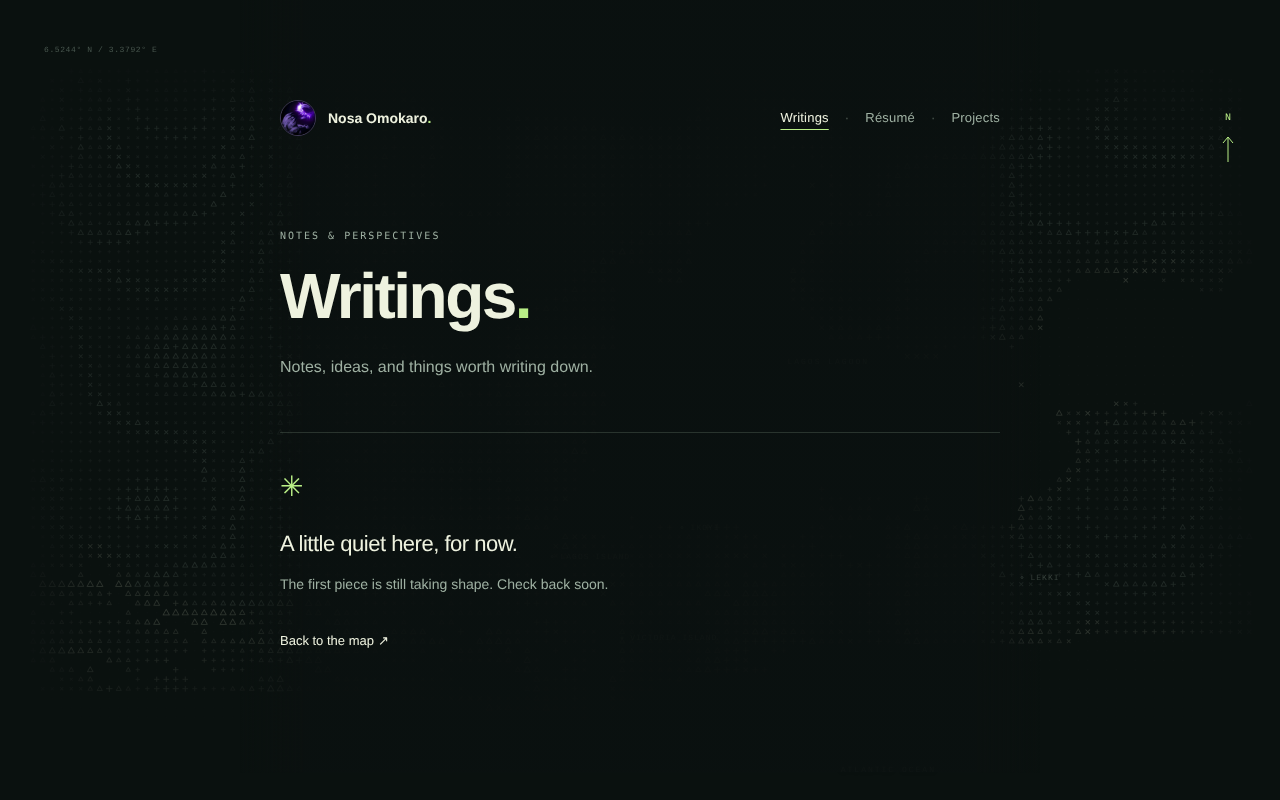
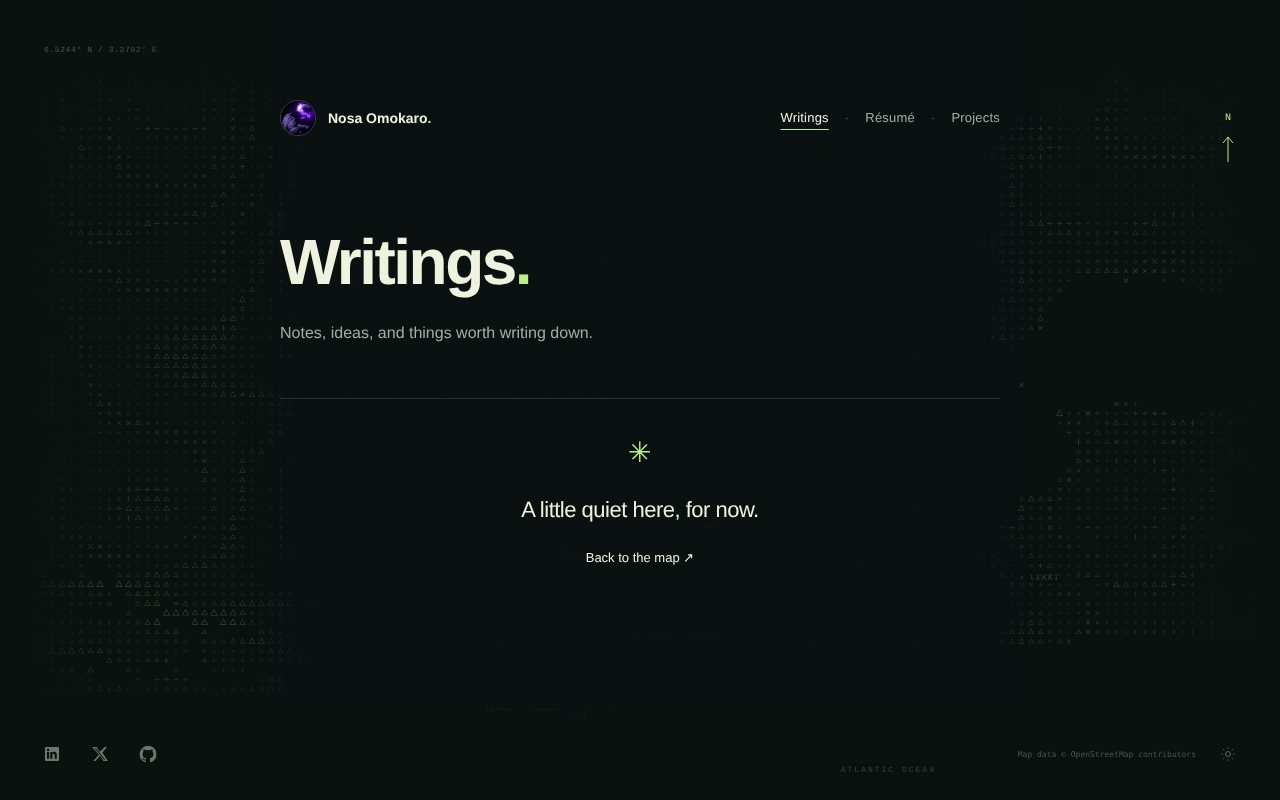
Simplify and center the writings empty state

diff --git a/src/styles/content.css b/src/styles/content.css
@@ -22,6 +22,7 @@
 .entry-link:hover .entry-arrow { transform: translate(3px, -3px); }
 .entry-link:hover h2 { color: var(--accent); }
 .empty-state { padding: 32px 0; border-top: 1px solid var(--line); }
+.empty-state.centered { text-align: center; }
 .empty-mark { color: var(--accent); display: block; font-size: 28px; margin-bottom: 20px; }
 .empty-state h2 { font-size: 22px; letter-spacing: -.5px; font-weight: 500; margin: 0 0 12px; }
 .empty-state p { font-size: 14px; line-height: 1.8; color: var(--muted); margin: 0 0 24px; }
